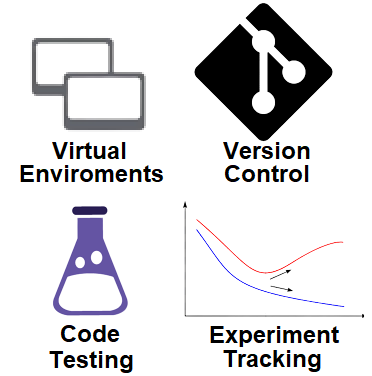
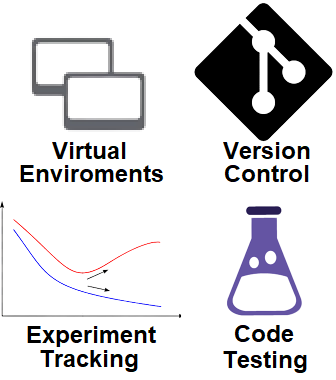
experiment tracking

diff --git a/experiment_tracking/wandb_script_solution.py b/experiment_tracking/wandb_script_solution.py
@@ -1,0 +1,72 @@
+import argparse
+import wandb
+import seaborn as sns
+
+from sklearn.model_selection import cross_val_score
+from sklearn import datasets
+from sklearn.model_selection import train_test_split, StratifiedKFold
+from sklearn.linear_model import LogisticRegression
+from sklearn.neighbors import KNeighborsClassifier
+from sklearn.discriminant_analysis import LinearDiscriminantAnalysis
+
+models = {
+    'LogisticRegression': LogisticRegression(solver='liblinear', multi_class='ovr'),
+    'LinearDiscriminantAnalysis': LinearDiscriminantAnalysis(),
+    'KNeighborsClassifier': KNeighborsClassifier(),
+}
+
+
+if __name__ == "__main__":
+    parser = argparse.ArgumentParser()
+    parser.add_argument("--model", default='LogisticRegression', type=str)
+    args = parser.parse_args()
+
+    run = wandb.init(project='iris', config={'model': args.model})
+
+    # Load dataset
+    df = datasets.load_iris()
+    X = df.data
+    y = df.target
+
+    # Split into train and test set
+    X_train, X_test, y_train, y_test = train_test_split(X, y, test_size=0.20, random_state=1)
+
+    # Instantiate the model
+    model = models[args.model]
+
+    kfold = StratifiedKFold(n_splits=10, random_state=1, shuffle=True)
+
+    # Get metrics
+    accuracy = cross_val_score(model, X_train, y_train, cv=kfold, scoring='accuracy').mean()
+    f1_macro = cross_val_score(model, X_train, y_train, cv=kfold, scoring='f1_macro').mean()
+    neg_log_loss = cross_val_score(model, X_train, y_train, cv=kfold, scoring='neg_log_loss').mean()
+
+    # Log the results
+    wandb.log({'accuracy': accuracy,
+                'f1_macro': f1_macro,
+                'neg_log_loss': neg_log_loss})
+
+
+    # Plot the training points
+    fig = sns.scatterplot(
+        x=X[:, 0],
+        y=X[:, 1],
+        hue=df.target_names[y],
+        alpha=1.0,
+        edgecolor="black",
+    )
+    wandb.log({'data_scatter': wandb.Image(fig)})
+
+    # Train single model on all data
+    model = models[args.model]
+    model.fit(X_train, y_train)
+    y_pred = model.predict(X_test)
+    y_probas = model.predict_proba(X_test)
+
+    # Try out scikit-learn integration
+    labels = df.feature_names
+    wandb.sklearn.plot_class_proportions(y_train, y_test, labels)
+    wandb.sklearn.plot_learning_curve(model, X_train, y_train)
+    wandb.sklearn.plot_roc(y_test, y_probas, labels)
+    wandb.sklearn.plot_precision_recall(y_test, y_probas, labels)
+    wandb.sklearn.plot_confusion_matrix(y_test, y_pred, labels)

diff --git a/experiment_tracking/wandb_sweep.py b/experiment_tracking/wandb_sweep.py
@@ -1,0 +1,56 @@
+import argparse
+import wandb
+
+from sklearn.model_selection import cross_val_score
+from sklearn import datasets
+from sklearn.model_selection import train_test_split, StratifiedKFold
+from sklearn.neighbors import KNeighborsClassifier
+
+
+# Define sweep config
+sweep_configuration = {
+    'method': 'random',
+    'name': 'sweep',
+    'metric': {'goal': 'maximize', 'name': 'accuracy'},
+    'parameters':
+        {
+            "n_neighbors": {'min': 2, 'max': 20},  # uniform sample value from 2 to 20
+            "weights": {'values': ['uniform', 'distance']},
+            "p": {'values': [1, 2, 3]},
+        }
+}
+
+
+def main():
+    run = wandb.init(project='iris')
+
+    n_neighbors = run.config.n_neighbors
+    weights = run.config.weights
+    p = run.config.p
+
+    # Load dataset
+    df = datasets.load_iris()
+    X = df.data
+    y = df.target
+
+    # Split into train and test set
+    X_train, X_test, y_train, y_test = train_test_split(X, y, test_size=0.20, random_state=1)
+
+    # Instantiate the model
+    model = KNeighborsClassifier(n_neighbors=n_neighbors, weights=weights, p=p)
+
+    # Get metrics
+    kfold = StratifiedKFold(n_splits=10, random_state=1, shuffle=True)
+    accuracy = cross_val_score(model, X_train, y_train, cv=kfold, scoring='accuracy').mean()
+    f1_macro = cross_val_score(model, X_train, y_train, cv=kfold, scoring='f1_macro').mean()
+    neg_log_loss = cross_val_score(model, X_train, y_train, cv=kfold, scoring='neg_log_loss').mean()
+
+    # Log the results
+    wandb.log({'accuracy': accuracy,
+               'f1_macro': f1_macro,
+               'neg_log_loss': neg_log_loss})
+
+
+if __name__ == "__main__":
+    sweep_id = wandb.sweep(sweep=sweep_configuration, project='iris')
+    wandb.agent(sweep_id, function=main, count=10)

diff --git a/experiment_tracking/wandb_script.py b/experiment_tracking/wandb_script.py
@@ -1,0 +1,38 @@
+import argparse
+
+from sklearn.model_selection import cross_val_score
+from sklearn import datasets
+from sklearn.model_selection import train_test_split, StratifiedKFold
+from sklearn.linear_model import LogisticRegression
+from sklearn.neighbors import KNeighborsClassifier
+from sklearn.discriminant_analysis import LinearDiscriminantAnalysis
+
+models = {
+    'LogisticRegression': LogisticRegression(solver='liblinear', multi_class='ovr'),
+    'LinearDiscriminantAnalysis': LinearDiscriminantAnalysis(),
+    'KNeighborsClassifier': KNeighborsClassifier(),
+}
+
+
+if __name__ == "__main__":
+    parser = argparse.ArgumentParser()
+    parser.add_argument("--model", default='LogisticRegression', type=str)
+    args = parser.parse_args()
+
+    # Load dataset
+    df = datasets.load_iris()
+    X = df.data
+    y = df.target
+
+    # Split into train and test set
+    X_train, X_test, y_train, y_test = train_test_split(X, y, test_size=0.20, random_state=1)
+
+    # Instantiate the model
+    model = models[args.model]
+
+    kfold = StratifiedKFold(n_splits=10, random_state=1, shuffle=True)
+
+    # Get metrics
+    accuracy = cross_val_score(model, X_train, y_train, cv=kfold, scoring='accuracy').mean()
+    f1_macro = cross_val_score(model, X_train, y_train, cv=kfold, scoring='f1_macro').mean()
+    neg_log_loss = cross_val_score(model, X_train, y_train, cv=kfold, scoring='neg_log_loss').mean()

diff --git a/virtual_environments/simple_classifier.py b/virtual_environments/simple_classifier.py
@@ -20,7 +20,6 @@ if __name__ == "__main__":
     cmap_light = ListedColormap(["orange", "cyan", "cornflowerblue"])
     cmap_bold = ["darkorange", "c", "darkblue"]
 
-
     # we create an instance of Neighbours Classifier and fit the data.
     clf = neighbors.KNeighborsClassifier(n_neighbors)
     clf.fit(X, y)

diff --git a/experiment_tracking/README.md b/experiment_tracking/README.md
@@ -3,3 +3,156 @@
 <p align="center">
   <img src="../figures/experiment_tracking.png" width="300">
 </p>
+
+Experiment logging or model monitoring is an important part of understanding what is going on with your model. It can
+help you debug your model and help tweak your models to perfection.
+
+The most basic logging we can do is writing the metric that our model is producing to the terminal or a file for later
+inspection. We can then also use tools such as [matplotlib](https://matplotlib.org/) for plotting our data, model fit,
+etc. This kind of workflow may be enough when doing smaller experiments or working alone on a project, but there is no
+way around using a proper experiment tracker and visualizer when doing large scale experiments in collaboration with
+others. It especially becomes important when you want to compare performance between different runs.
+
+There exist many tools for logging your experiments, with some of them being:
+
+* [Tensorboard](https://www.tensorflow.org/tensorboard)
+* [Comet](https://www.comet.ml/site/)
+* [MLFlow](https://mlflow.org/)
+* [Neptune](https://neptune.ai/)
+* [Weights and Bias](https://wandb.ai/site)
+
+All of the frameworks offers many of the same functionalities. We are going to use Weights and Bias (wandb), as it
+support everything we need in this course. Additionally, it is an excellent tool for collaboration and sharing of
+results.
+
+## Exercises
+
+1. Start by creating an account at [wandb](https://wandb.ai/site). I recommend using your github account but feel
+   free to choose what you want. When you are logged in you should get an API key of length 40. Copy this for later
+   use (HINT: if you forgot to copy the API key, you can find it under settings).
+
+2. Next install wandb on your laptop
+
+   ```bash
+   pip install wandb
+   ```
+
+3. Now connect to your wandb account
+
+   ```bash
+   wandb login
+   ```
+
+   you will be asked to provide the 40 length API key. The connection should be remain open to the wandb server
+   even when you close the terminal, such that you do not have to login each time. If using `wandb` in a notebook
+   you need to manually close the connection using `wandb.finish()`.
+
+4. With it all setup we are now ready to incorporate `wandb` into our code. The interface is fairly simple, and
+   the [docs](https://docs.wandb.ai) are fairly well written to get you through the exercises (HINT: the two methods
+   you need to call are `wandb.init` and `wandb.log`).
+
+
+
+   1. We have provided a sample script called `wandb_script.py` that agains implement a small classification model
+      on the iris-dataset. Add `wandb.init` and `wandb.log` in the appropriate places such that wandb is initilized
+      correctly and such that both *accuracy, f1, negative log likelihood* gets logged.
+
+   2. When you are done, try running the script:
+
+      ```bash
+      python wandb_script.py
+      ```
+
+      In particular look at the output that gets written.
+
+   3. Next go to the webpage and lookup the project you created and logged something to. You should hopefully see one
+      experiment logged, which is not that interesting at the moment. However, we can checkout one important feature if
+      you go to the *Overview* tab for a specific experiment, like the image below:
+
+      <p align="center">
+         <img src="../figures/weights_and_biases1.PNG" width="500">
+      </p>
+
+      As you hopefully can see, we get the exact python version, git commit, command used etc. to run the experiment,
+      which should make it completely reproducible!
+
+5. The `wandb_script.py` already support using different models by passing them in as a argument when running the script
+
+   ```bash
+   python wandb_script.py --model LogisticRegression
+   ```
+
+   try running the script with all the different models. However, before doing so it is a good idea to also log the
+   model we are using to wandb. Fill out the `config` arg in `wandb.init` with the model hyperparameter and run all
+   combinations.
+
+6. If you managed to do the last part, you should hopefully have logged multiple experiment now. Look at your project
+   page again in your webbrowser. You should see all your experiments. In particular checkout the `Table` tab (as in
+   the image below) that can give a nice condensed overview of your experiments.
+
+   <p align="center">
+      <img src="../figures/weights_and_biases2.PNG" width="500">
+   </p>
+
+7. Wandb can log a lot more than just scalar values. This could be a image (numpy array), a histogram or a matplotlib
+   figure. In all cases the logging is still going to use `wandb.log` but you need extra calls to `wandb.Image` etc.
+   depending on what you choose to log. Add the following code to the `wandb_script.py` at the end and afterwards
+   figure out how to call `wandb.log` to log the figure:
+
+   ```python
+   import seaborn as sns
+   # Plot also the training points
+   fig = sns.scatterplot(
+       x=X[:, 0],
+       y=X[:, 1],
+       hue=df.target_names[y],
+       alpha=1.0,
+       edgecolor="black",
+   )
+   ```
+
+8. Wandb have a nice integration with *scikit-learn* which can be very useful, so lets integrate that into our script
+   for help look at this [guide](https://docs.wandb.ai/guides/integrations/scikit) and this
+   [notebook](https://colab.research.google.com/github/wandb/examples/blob/master/colabs/scikit/Simple_Scikit_Integration.ipynb#scrollTo=ojLgOTVLEIxc)
+   .Add the following code at the end of the script:
+
+   ```python
+   model = models[args.model]
+   model.fit(X_train, y_train)
+   y_pred = model.predict(X_test)
+   y_probas = model.predict_proba(X_test)
+   ```
+
+   and then try to include the following lines of code:
+
+   ```python
+   wandb.sklearn.plot_class_proportions(y_train, y_test, labels)
+   wandb.sklearn.plot_learning_curve(model, X_train, y_train)
+   wandb.sklearn.plot_roc(y_test, y_probas, labels)
+   wandb.sklearn.plot_precision_recall(y_test, y_probas, labels)
+   wandb.sklearn.plot_confusion_matrix(y_test, y_pred, labels)
+   ```
+
+   and run the script again (using whatever model you like). You may not understand what each command actually plot,
+   but hopefully this will be more clear later on. The important part is that you can see how a lot of information can
+   be logged about a single experiment.
+
+9. When calling `wandb.init` you have two arguments called `project` and `entity`. Make sure that you understand these
+   and try them out. It will come in handy for your group work as they essentially allows multiple users to upload their
+   own runs to the same project in `wandb`.
+
+10. Another awesome feature of wandb is doing hyperparameter sweeps e.g. finding the best parameters for a
+    given model. You can do this in scikit-learn, however the core advantage of using wandb is that the hyperparameter
+    optimization gets abstracted away, meaning that if you want to do hyperparameter sweeping for a framework other than
+    scikit-learn it would still be the same code. We provide a sample script `wandb_sweep.py` that does hyperparameter
+    optimization for you. Try to go over it and try to make sense what is going on. Afterwards execute it
+
+    ```bash
+    python wandb_sweep.py
+    ```
+
+    It will take some time to run (by default it runs 10 combinations of parameters). Afterwards, checkout the sweep
+    tab on the webside, where you should figure out:
+
+    * What combination of parameters lead to the highest accuracy value?
+    * What parameter has the highest importance for getting a high accuracy value?

diff --git a/README.md b/README.md
@@ -9,24 +9,25 @@ core topics covered are:
 
 * [Virtual environments](https://github.com/SkafteNicki/ku_devops/tree/main/virtual_environments)
 * [Version control](https://github.com/SkafteNicki/ku_devops/tree/main/version_control)
-* [Code testing](https://github.com/SkafteNicki/ku_devops/tree/main/code_testing)
 * [Experiment tracking](https://github.com/SkafteNicki/ku_devops/tree/main/experiment_tracking)
+* [Code testing](https://github.com/SkafteNicki/ku_devops/tree/main/code_testing)
 
-When doing the exercises, do maximize your MLOps/DevOps experience you should priorities:
+You are supposed to do them in the order listed. When doing the exercises, do maximize your MLOps/DevOps experience
+you should priorities:
 
 1. Make yourself familiar with running commands in the terminal. The terminal can be a scary place, but it is an
    essential skill to be able to run commands without relying on a graphical interface. If you want good introduction
    to using the shell, I highly recommend the first two lectures from
-  [this MIT course](https://missing.csail.mit.edu/).
+   [this MIT course](https://missing.csail.mit.edu/).
 2. Only use scripts e.g. no notebooks for these exercises. Notebooks have their benefits but the fact is that developing
    software in the *real world* is done in scripts. Therefore make sure that whenever you are writing code for the
    exercises do this in `.py` scripts. If you feel like you miss the interactiveness of notebooks when working with
    script I can highly recommend giving [ipython](https://ipython.org/) a spin.
-3. Get a good code editor. If you do not have one, I can highly recommend
+3. Get a good code editor, and try using it. If you do not have one, I can highly recommend
    [Visual Studio Code](https://code.visualstudio.com/) that are a lightweight editor, but through extensions can
    become really powerfull. Otherwise, I also recommend [PyCharm](https://www.jetbrains.com/pycharm/).
 
-Why should a data scientist care of MLOps? Because MLOps provide processes and tools for creating *reproducible*
+Why should a data scientist care about MLOps? Because MLOps provide processes and tools for creating *reproducible*
 experiments at scale when working with any kind of machine learning models. Being able secure that your experiments
 are reproducible are important in the context of the scientific method:
 
@@ -36,7 +37,7 @@ are reproducible are important in the context of the scientific method:
   <a href="https://www.australianenvironmentaleducation.com.au/education-resources/what-is-the-scientific-method/"> Image credit </a>
 </p>
 
-Without reproducibility the method breaks at the experimental stage, as non-reproduceable experiments will most likely
+Without reproducibility the method breaks at the experimental stage, as non-reproducible experiments will most likely
 lead to different results and thereby different conclusions on the initial hypothesis.
 
 For a much more complete set of material on this topic, see [this course](https://skaftenicki.github.io/dtu_mlops/)
